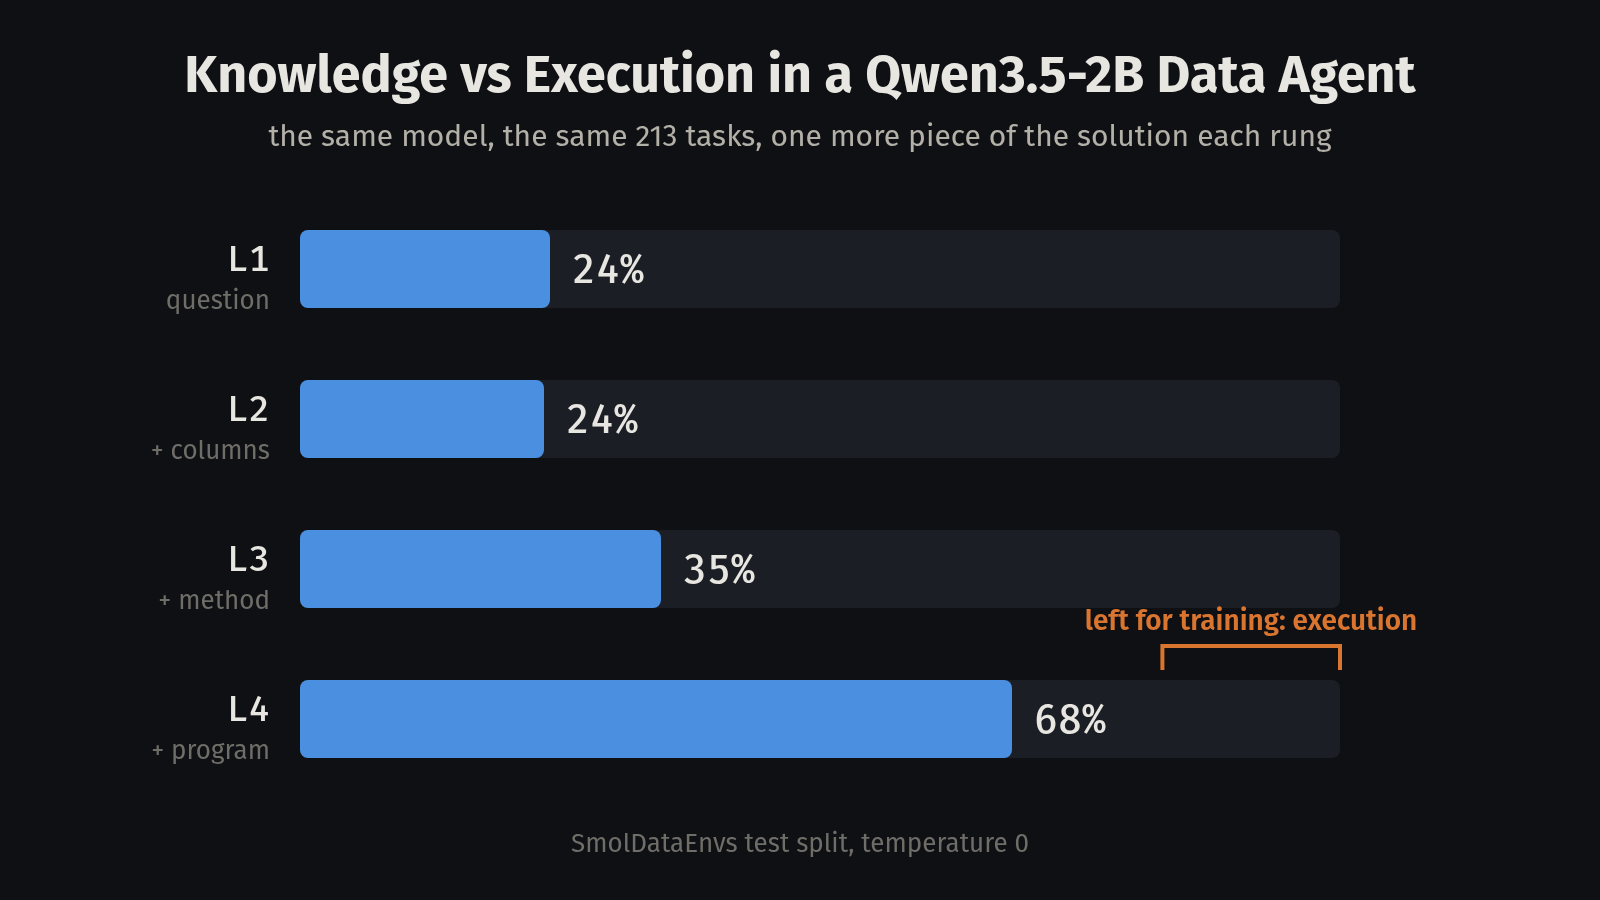
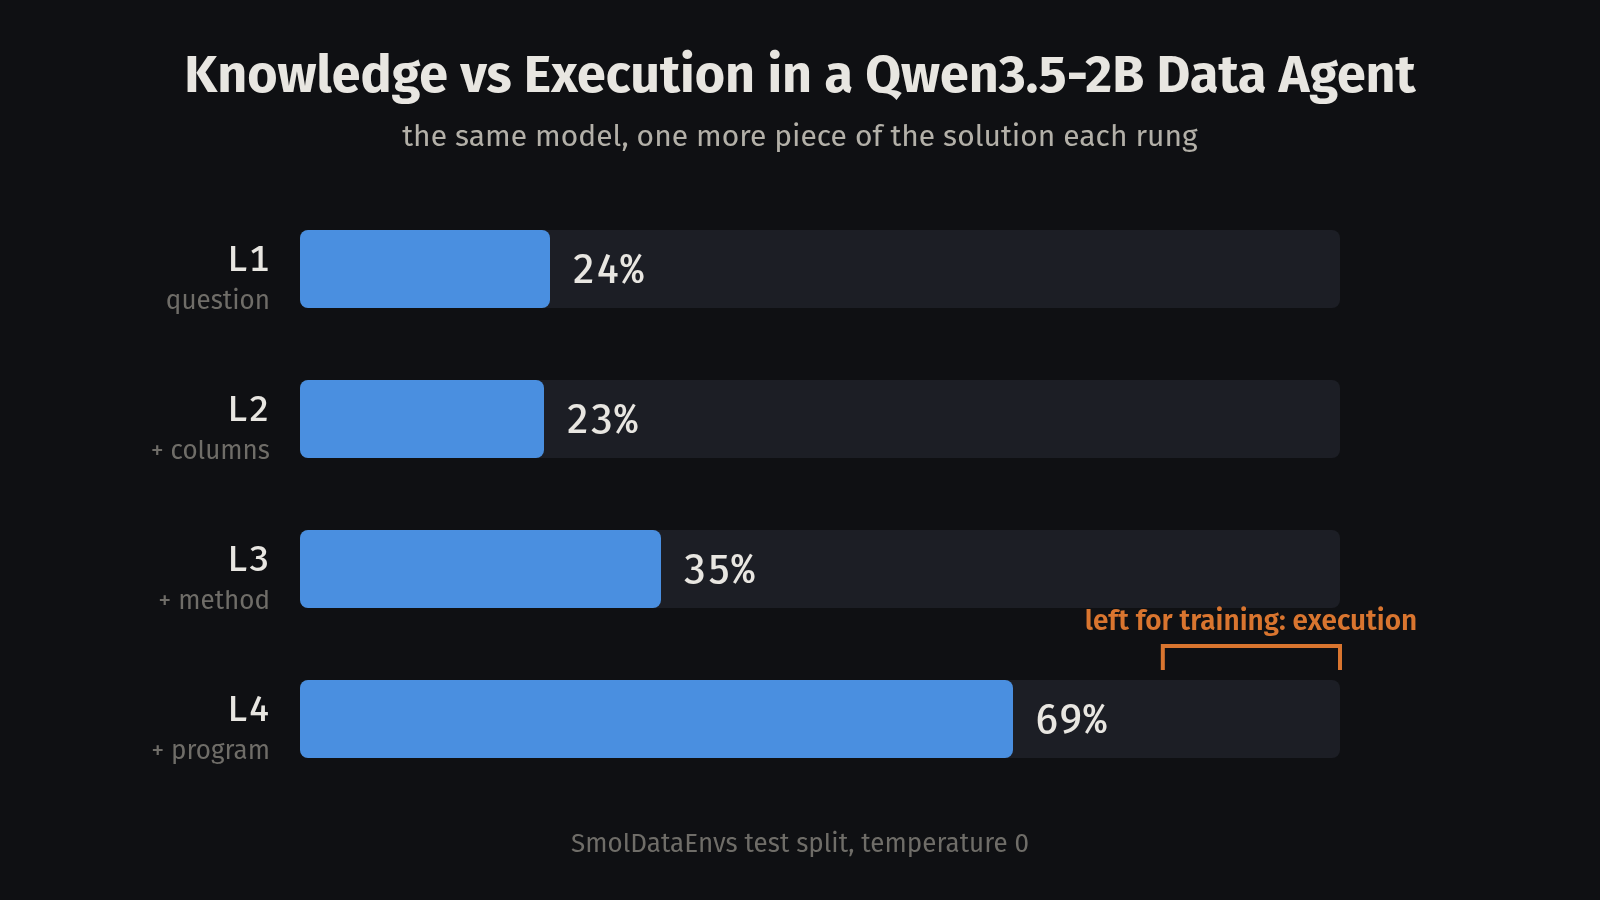
Clarify Figure 3 text, retitle charts, fix hero numbers
Figure 3 paragraph now maps words to chart segments; subsection
renamed to Training Should Focus on Execution; SFT at L1 title; hero
L2/L4 corrected to 23%/69% with exact snapshot values.

Changed region(s): [[0.1562, 0.1244, 0.8438, 0.1867], [0.6562, 0.7778, 0.6875, 0.8089]]

diff --git a/scripts/smol-ladder-figures.py b/scripts/smol-ladder-figures.py
@@ -204,7 +204,7 @@ def fig_ladder(s):
 
 def fig_sft(s):
     """L1 at temperature 0 (four models) and sampled (three): pass rate with its interval."""
-    panels = [("Temperature 0, one attempt, 250 tasks", s["l1_greedy"]["models"], ["base", "A", "B2"]),
+    panels = [("Temperature 0, one episode, 250 tasks", s["l1_greedy"]["models"], ["base", "A", "B2"]),
               ("Sampled, 4 attempts per task, 60 tasks", s["l1_sampled"]["models"], ["base", "A", "B"])]
     top, bottom = 48, 250
     sy = lambda v: bottom - (bottom - top) * v / 0.4
@@ -270,8 +270,8 @@ def fig_failures(s):
         body.append(H.text(lx + 17, ly + 11, label_, 12, "var(--text-2)"))
     a = s["anatomy"]
     body.append(H.text(x0, y + 58, "Of the unanswered episodes, the correct value had already been printed in", 12, "var(--text-3)"))
-    body.append(H.text(x0, y + 74, f"{a['L1']['value_on_screen']} of {a['L1']['unanswered']} at L1, {a['L3']['value_on_screen']} of {a['L3']['unanswered']} at L3 and {a['L4']['value_on_screen']} of {a['L4']['unanswered']} at L4.", 12, "var(--text-3)"))
-    return H.svg(y + 88, "How the base model's episodes end at L1, L3 and L4. " + "; ".join(label), body)
+    body.append(H.text(x0, y + 74, f"{a['L1']['value_on_screen']} of {a['L1']['unanswered']} at L1, {a['L3']['value_on_screen']} of {a['L3']['unanswered']} at L3, and {a['L4']['value_on_screen']} of {a['L4']['unanswered']} at L4.", 12, "var(--text-3)"))
+    return H.svg(y + 88, "How the base model's episodes end at L1, L3, and L4. " + "; ".join(label), body)
 
 
 def fig_gained_lost(s):
@@ -329,13 +329,13 @@ def fig_tiers(s):
     body.append(H.line(x0, bottom, x1, bottom, "var(--text-3)", 1.5))
     body.extend(H.y_axis(x0, top, bottom, "pass rate"))
     body.append(H.text((x0 + x1) / 2, bottom + 58, "difficulty tier", 15, "var(--text-2)", "middle"))
-    return H.svg(bottom + 72, "Base model pass rate by difficulty tier at L1, L3 and L4. " + "; ".join(label), body)
+    return H.svg(bottom + 72, "Base model pass rate by difficulty tier at L1, L3, and L4. " + "; ".join(label), body)
 
 
 FIGURES = {"ladder": fig_ladder, "sft-l1": fig_sft, "failures": fig_failures, "gained-lost": fig_gained_lost, "tiers": fig_tiers}
-TITLES = {"ladder": "Pass Rate by Rung: Base Model and A", "sft-l1": "Fine-Tuning at L1",
+TITLES = {"ladder": "Pass Rate by Rung: Base and A", "sft-l1": "SFT at L1",
           "failures": "How the Base Model's Episodes End", "gained-lost": "Tasks Gained and Lost Against L1",
-          "tiers": "Difficulty by Tier as Information Is Added"}
+          "tiers": "Pass Rate by Difficulty Tier"}
 
 
 def render(s):

diff --git a/scripts/smol-ladder-hero.py b/scripts/smol-ladder-hero.py
@@ -12,7 +12,7 @@ import os, subprocess, tempfile
 SITE = os.path.dirname(os.path.dirname(os.path.abspath(__file__)))
 W, H = 1600, 900
 
-RUNGS = [("L1", "question", 0.240), ("L2", "+ columns", 0.235), ("L3", "+ method", 0.347), ("L4", "+ program", 0.685)]
+RUNGS = [("L1", "question", 0.240), ("L2", "+ columns", 0.2347), ("L3", "+ method", 0.3474), ("L4", "+ program", 0.6854)]
 
 THEMES = {
     "light": {"bg": "#fbfbf9", "text": "#1a1a1a", "text2": "#4b4b4b", "text3": "#8a8a85", "line": "#d9d7d0",
@@ -28,7 +28,7 @@ def hero(t):
     out.append(f'<text x="{W / 2}" y="92" text-anchor="middle" fill="{c["text"]}" font-family="Fira Sans" '
                f'font-size="52" font-weight="700">Knowledge vs Execution in a Qwen3.5-2B Data Agent</text>')
     out.append(f'<text x="{W / 2}" y="146" text-anchor="middle" fill="{c["text2"]}" font-family="Fira Sans" '
-               f'font-size="30">the same model, the same 213 tasks, one more piece of the solution each rung</text>')
+               f'font-size="30">the same model, one more piece of the solution each rung</text>')
     x0, x1 = 300, 1340
     top, row, bh = 230, 150, 78
     for k, (rung, name, v) in enumerate(RUNGS):

diff --git a/src/writings/knowledge-vs-execution-qwen3-5-2b-data-agent.md b/src/writings/knowledge-vs-execution-qwen3-5-2b-data-agent.md
@@ -66,7 +66,7 @@ the solution revealed at each rung. Then its SFT version climbed the same ladder
 
 ## Ladder Setup
 
-Two pieces make the measurement: the ladder and the agent that climbs it. Each rung is a prefix of the next. The model still does all the work at every rung: run the
+The information ladder and the agent that climbs it allow us to measure knowledge and execution separately. Each rung is a prefix of the next. The model still does all the work at every rung: run the
 commands, read the output, and write the answer to a file.
 
 | Rung | The model gets |
@@ -123,19 +123,20 @@ With the program, difficulty flattens: 73% easy, 69% medium, and 65% hard at L4,
 <figcaption><strong>Figure 2:</strong> Base pass rates by tier at L1, L3, and L4, where the easy-hard spread falls from 59 points to 8.</figcaption>
 </figure>
 
-The last third is execution. At L4 the computation is right (2 wrong numbers in 213 tasks). Of the
-67 misses, 25 report the wrong format, 16 loop, and 11 print whole tables. Habits: read the
-format, print less, and stop once the value is on screen.
+The last third is execution. Of the 67 misses, 25 submit the wrong kind of value, 16 loop,
+and 11 print whole tables. That means unreadable as an answer: a label where a number belongs,
+or a number buried in a sentence.
 
 <figure class="fig-inline">
 {% include "figures/smol-ladder/failures.svg" %}
 <figcaption><strong>Figure 3:</strong> The chart splits base episodes at L1, L3, and L4 by ending. Blue is correct, orange is wrong answers, and gray never wrote one.</figcaption>
 </figure>
 
-L3 cuts wrong answers from 23% to 14%. L4 cuts repeat loops from 34% to 8% and lifts correct
-episodes to 69%. The gray left at each rung is what training can reach.
+L3 cuts submitted mistakes, the two orange segments, from 23% to 14%. L4 cuts repeat loops
+from 34% to 8% and lifts correct episodes to 69%. The gray left at each rung never submitted
+anything, and reaching it is training's job.
 
-### Execution Is Trainable
+### Training Should Focus on Execution
 
 The opportunity is the no-answer episodes: at L1 the base model scored 60 correct, 58 wrong answers, and 132 with no answer. In 36 of
 those 132, the model's own
@@ -162,7 +163,7 @@ against 84%. Its validation loss fell from 0.49 to 0.38, so undertraining does n
 Sampled, all three models agree: base 20%, A 23%, and B 19% on the 60-task set. B, trained on our own
 trajectories, loops least (14% vs 18% base, 39% A) but is fragile at temperature 0, scoring 14% as greedy decoding amplifies its `print`-heavy style into repeated commands.
 
-The SmolDataEnvs authors report no SFT-alone number. Their headline is the [GRPO endpoint](https://huggingface.co/AdithyaSK/smoldataenvs-grpo-2b-v0) on the 144-task eval split, so this fills a gap rather than disputing one. Across decodings, the result holds. SFT moves behavior, not accuracy.
+The SmolDataEnvs authors report no SFT-alone number. Their headline is the [GRPO endpoint](https://huggingface.co/AdithyaSK/smoldataenvs-grpo-2b-v0) on the 144-task eval split, so this fills a gap rather than disputing one.
 
 ## Results
 
